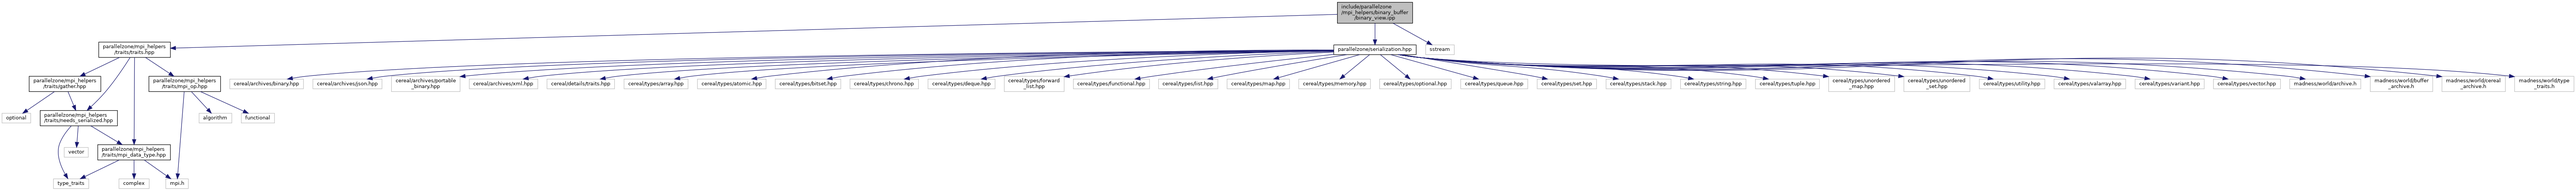
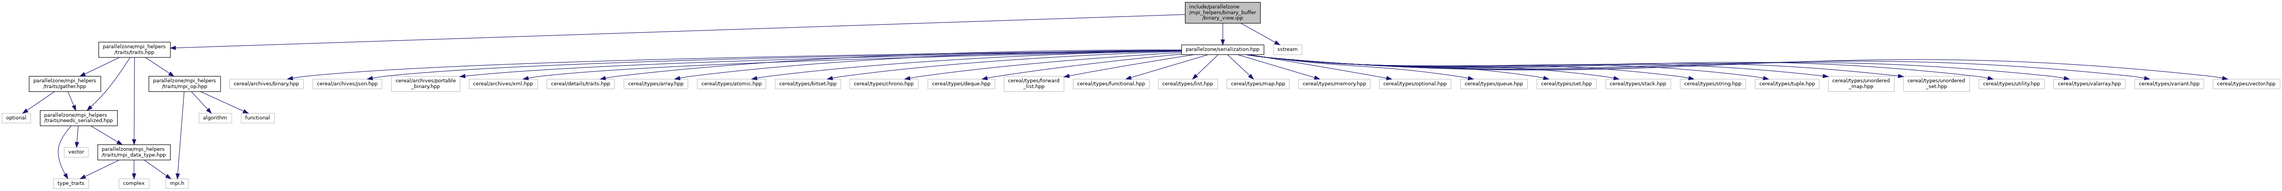
deploy: df736439442db443a8a11bfcac84e42c292cdda2

diff --git a/parallelzone_cxx_api/serialization_8hpp_source.html b/parallelzone_cxx_api/serialization_8hpp_source.html
@@ -114,51 +114,23 @@ $(function() {
 <div class="line"><a name="l00042"></a><span class="lineno">   42</span>&#160;<span class="preprocessor">#include &lt;cereal/types/valarray.hpp&gt;</span></div>
 <div class="line"><a name="l00043"></a><span class="lineno">   43</span>&#160;<span class="preprocessor">#include &lt;cereal/types/variant.hpp&gt;</span></div>
 <div class="line"><a name="l00044"></a><span class="lineno">   44</span>&#160;<span class="preprocessor">#include &lt;cereal/types/vector.hpp&gt;</span></div>
-<div class="line"><a name="l00045"></a><span class="lineno">   45</span>&#160;<span class="preprocessor">#include &lt;madness/world/archive.h&gt;</span></div>
-<div class="line"><a name="l00046"></a><span class="lineno">   46</span>&#160;<span class="preprocessor">#include &lt;madness/world/buffer_archive.h&gt;</span></div>
-<div class="line"><a name="l00047"></a><span class="lineno">   47</span>&#160;<span class="preprocessor">#include &lt;madness/world/cereal_archive.h&gt;</span></div>
-<div class="line"><a name="l00048"></a><span class="lineno">   48</span>&#160;<span class="preprocessor">#include &lt;madness/world/type_traits.h&gt;</span></div>
-<div class="line"><a name="l00049"></a><span class="lineno">   49</span>&#160; </div>
-<div class="line"><a name="l00050"></a><span class="lineno">   50</span>&#160;<span class="keyword">namespace </span>parallelzone {</div>
-<div class="line"><a name="l00051"></a><span class="lineno">   51</span>&#160;<span class="keyword">using</span> XMLOutputArchive =</div>
-<div class="line"><a name="l00052"></a><span class="lineno">   52</span>&#160;  madness::archive::CerealOutputArchive&lt;cereal::XMLOutputArchive&gt;;</div>
-<div class="line"><a name="l00053"></a><span class="lineno">   53</span>&#160;<span class="keyword">using</span> XMLInputArchive =</div>
-<div class="line"><a name="l00054"></a><span class="lineno">   54</span>&#160;  madness::archive::CerealInputArchive&lt;cereal::XMLInputArchive&gt;;</div>
-<div class="line"><a name="l00055"></a><span class="lineno">   55</span>&#160;<span class="keyword">using</span> JSONOutputArchive =</div>
-<div class="line"><a name="l00056"></a><span class="lineno">   56</span>&#160;  madness::archive::CerealOutputArchive&lt;cereal::JSONOutputArchive&gt;;</div>
-<div class="line"><a name="l00057"></a><span class="lineno">   57</span>&#160;<span class="keyword">using</span> JSONInputArchive =</div>
-<div class="line"><a name="l00058"></a><span class="lineno">   58</span>&#160;  madness::archive::CerealInputArchive&lt;cereal::JSONInputArchive&gt;;</div>
-<div class="line"><a name="l00059"></a><span class="lineno">   59</span>&#160;<span class="keyword">using</span> BinaryOutputArchive =</div>
-<div class="line"><a name="l00060"></a><span class="lineno">   60</span>&#160;  madness::archive::CerealOutputArchive&lt;cereal::BinaryOutputArchive&gt;;</div>
-<div class="line"><a name="l00061"></a><span class="lineno">   61</span>&#160;<span class="keyword">using</span> BinaryInputArchive =</div>
-<div class="line"><a name="l00062"></a><span class="lineno">   62</span>&#160;  madness::archive::CerealInputArchive&lt;cereal::BinaryInputArchive&gt;;</div>
-<div class="line"><a name="l00063"></a><span class="lineno">   63</span>&#160;<span class="keyword">using</span> PortableBinaryOutputArchive =</div>
-<div class="line"><a name="l00064"></a><span class="lineno">   64</span>&#160;  madness::archive::CerealOutputArchive&lt;cereal::PortableBinaryOutputArchive&gt;;</div>
-<div class="line"><a name="l00065"></a><span class="lineno">   65</span>&#160;<span class="keyword">using</span> PortableBinaryInputArchive =</div>
-<div class="line"><a name="l00066"></a><span class="lineno">   66</span>&#160;  madness::archive::CerealInputArchive&lt;cereal::PortableBinaryInputArchive&gt;;</div>
-<div class="line"><a name="l00067"></a><span class="lineno">   67</span>&#160;<span class="keyword">template</span>&lt;<span class="keyword">typename</span> T, <span class="keyword">typename</span> Archive&gt;</div>
-<div class="line"><a name="l00068"></a><span class="lineno">   68</span>&#160;<span class="keyword">using</span> is_serializable = cereal::traits::is_output_serializable&lt;T, Archive&gt;;</div>
-<div class="line"><a name="l00069"></a><span class="lineno">   69</span>&#160;<span class="keyword">template</span>&lt;<span class="keyword">typename</span> T, <span class="keyword">typename</span> Archive&gt;</div>
-<div class="line"><a name="l00070"></a><span class="lineno">   70</span>&#160;<span class="keyword">using</span> is_deserializable = cereal::traits::is_input_serializable&lt;T, Archive&gt;;</div>
-<div class="line"><a name="l00071"></a><span class="lineno">   71</span>&#160;<span class="keyword">using</span> cereal::traits::detail::get_input_from_output;</div>
-<div class="line"><a name="l00072"></a><span class="lineno">   72</span>&#160;<span class="keyword">using</span> cereal::traits::detail::get_output_from_input;</div>
-<div class="line"><a name="l00073"></a><span class="lineno">   73</span>&#160;<span class="keyword">using</span> madness::is_input_archive;</div>
-<div class="line"><a name="l00074"></a><span class="lineno">   74</span>&#160;<span class="keyword">using</span> madness::is_input_archive_v;</div>
-<div class="line"><a name="l00075"></a><span class="lineno">   75</span>&#160;<span class="keyword">using</span> madness::is_output_archive;</div>
-<div class="line"><a name="l00076"></a><span class="lineno">   76</span>&#160;<span class="keyword">using</span> madness::is_output_archive_v;</div>
-<div class="line"><a name="l00077"></a><span class="lineno">   77</span>&#160;} <span class="comment">// namespace parallelzone</span></div>
-<div class="line"><a name="l00078"></a><span class="lineno">   78</span>&#160; </div>
-<div class="line"><a name="l00079"></a><span class="lineno">   79</span>&#160;CEREAL_SETUP_ARCHIVE_TRAITS(madness::archive::BufferInputArchive,</div>
-<div class="line"><a name="l00080"></a><span class="lineno">   80</span>&#160;                            madness::archive::BufferOutputArchive)</div>
-<div class="line"><a name="l00081"></a><span class="lineno">   81</span>&#160; </div>
-<div class="line"><a name="l00082"></a><span class="lineno">   82</span>&#160;CEREAL_SETUP_ARCHIVE_TRAITS(parallelzone::XMLInputArchive,</div>
-<div class="line"><a name="l00083"></a><span class="lineno">   83</span>&#160;                            parallelzone::XMLOutputArchive)</div>
-<div class="line"><a name="l00084"></a><span class="lineno">   84</span>&#160;CEREAL_SETUP_ARCHIVE_TRAITS(parallelzone::JSONInputArchive,</div>
-<div class="line"><a name="l00085"></a><span class="lineno">   85</span>&#160;                            parallelzone::JSONOutputArchive)</div>
-<div class="line"><a name="l00086"></a><span class="lineno">   86</span>&#160;CEREAL_SETUP_ARCHIVE_TRAITS(parallelzone::BinaryInputArchive,</div>
-<div class="line"><a name="l00087"></a><span class="lineno">   87</span>&#160;                            parallelzone::BinaryOutputArchive)</div>
-<div class="line"><a name="l00088"></a><span class="lineno">   88</span>&#160;CEREAL_SETUP_ARCHIVE_TRAITS(parallelzone::PortableBinaryInputArchive,</div>
-<div class="line"><a name="l00089"></a><span class="lineno">   89</span>&#160;                            parallelzone::PortableBinaryOutputArchive)</div>
+<div class="line"><a name="l00045"></a><span class="lineno">   45</span>&#160; </div>
+<div class="line"><a name="l00046"></a><span class="lineno">   46</span>&#160;<span class="keyword">namespace </span>parallelzone {</div>
+<div class="line"><a name="l00047"></a><span class="lineno">   47</span>&#160;<span class="keyword">using</span> XMLOutputArchive            = cereal::XMLOutputArchive;</div>
+<div class="line"><a name="l00048"></a><span class="lineno">   48</span>&#160;<span class="keyword">using</span> XMLInputArchive             = cereal::XMLInputArchive;</div>
+<div class="line"><a name="l00049"></a><span class="lineno">   49</span>&#160;<span class="keyword">using</span> JSONOutputArchive           = cereal::JSONOutputArchive;</div>
+<div class="line"><a name="l00050"></a><span class="lineno">   50</span>&#160;<span class="keyword">using</span> JSONInputArchive            = cereal::JSONInputArchive;</div>
+<div class="line"><a name="l00051"></a><span class="lineno">   51</span>&#160;<span class="keyword">using</span> BinaryOutputArchive         = cereal::BinaryOutputArchive;</div>
+<div class="line"><a name="l00052"></a><span class="lineno">   52</span>&#160;<span class="keyword">using</span> BinaryInputArchive          = cereal::BinaryInputArchive;</div>
+<div class="line"><a name="l00053"></a><span class="lineno">   53</span>&#160;<span class="keyword">using</span> PortableBinaryOutputArchive = cereal::PortableBinaryOutputArchive;</div>
+<div class="line"><a name="l00054"></a><span class="lineno">   54</span>&#160;<span class="keyword">using</span> PortableBinaryInputArchive  = cereal::PortableBinaryInputArchive;</div>
+<div class="line"><a name="l00055"></a><span class="lineno">   55</span>&#160;<span class="keyword">template</span>&lt;<span class="keyword">typename</span> T, <span class="keyword">typename</span> Archive&gt;</div>
+<div class="line"><a name="l00056"></a><span class="lineno">   56</span>&#160;<span class="keyword">using</span> is_serializable = cereal::traits::is_output_serializable&lt;T, Archive&gt;;</div>
+<div class="line"><a name="l00057"></a><span class="lineno">   57</span>&#160;<span class="keyword">template</span>&lt;<span class="keyword">typename</span> T, <span class="keyword">typename</span> Archive&gt;</div>
+<div class="line"><a name="l00058"></a><span class="lineno">   58</span>&#160;<span class="keyword">using</span> is_deserializable = cereal::traits::is_input_serializable&lt;T, Archive&gt;;</div>
+<div class="line"><a name="l00059"></a><span class="lineno">   59</span>&#160;<span class="keyword">using</span> cereal::traits::detail::get_input_from_output;</div>
+<div class="line"><a name="l00060"></a><span class="lineno">   60</span>&#160;<span class="keyword">using</span> cereal::traits::detail::get_output_from_input;</div>
+<div class="line"><a name="l00061"></a><span class="lineno">   61</span>&#160;} <span class="comment">// namespace parallelzone</span></div>
 </div><!-- fragment --></div><!-- contents -->
 <!-- start footer part -->
 <hr class="footer"/><address class="footer"><small>

diff --git a/parallelzone_cxx_api/parallelzone_8hpp.html b/parallelzone_cxx_api/parallelzone_8hpp.html
@@ -77,56 +77,56 @@ Include dependency graph for parallelzone.hpp:</div>
 <div class="dyncontent">
 <div class="center"><img src="parallelzone_8hpp__incl.png" border="0" usemap="#ainclude_2parallelzone_2parallelzone_8hpp" alt=""/></div>
 <map name="ainclude_2parallelzone_2parallelzone_8hpp" id="ainclude_2parallelzone_2parallelzone_8hpp">
-<area shape="rect" title=" " alt="" coords="3278,5,3431,47"/>
-<area shape="rect" href="serialization_8hpp_source.html" title=" " alt="" coords="2987,638,3202,665"/>
-<area shape="rect" href="runtime_8hpp.html" title=" " alt="" coords="3632,95,3789,136"/>
-<area shape="rect" title=" " alt="" coords="5,727,197,754"/>
-<area shape="rect" title=" " alt="" coords="222,727,402,754"/>
-<area shape="rect" title=" " alt="" coords="427,720,605,761"/>
-<area shape="rect" title=" " alt="" coords="629,727,808,754"/>
-<area shape="rect" title=" " alt="" coords="832,727,1008,754"/>
-<area shape="rect" title=" " alt="" coords="1033,727,1199,754"/>
-<area shape="rect" title=" " alt="" coords="1224,727,1403,754"/>
-<area shape="rect" title=" " alt="" coords="1427,727,1597,754"/>
-<area shape="rect" title=" " alt="" coords="1621,727,1800,754"/>
-<area shape="rect" title=" " alt="" coords="1825,727,1999,754"/>
-<area shape="rect" title=" " alt="" coords="2023,720,2179,761"/>
-<area shape="rect" title=" " alt="" coords="2203,727,2402,754"/>
-<area shape="rect" title=" " alt="" coords="2425,727,2580,754"/>
-<area shape="rect" title=" " alt="" coords="2604,727,2767,754"/>
-<area shape="rect" title=" " alt="" coords="2791,727,2977,754"/>
-<area shape="rect" title=" " alt="" coords="3001,727,3188,754"/>
-<area shape="rect" title=" " alt="" coords="3213,727,3387,754"/>
-<area shape="rect" title=" " alt="" coords="3412,727,3567,754"/>
-<area shape="rect" title=" " alt="" coords="3591,727,3761,754"/>
-<area shape="rect" title=" " alt="" coords="3785,727,3956,754"/>
-<area shape="rect" title=" " alt="" coords="3981,727,4147,754"/>
-<area shape="rect" title=" " alt="" coords="4171,720,4343,761"/>
-<area shape="rect" title=" " alt="" coords="4367,720,4539,761"/>
-<area shape="rect" title=" " alt="" coords="4564,727,4735,754"/>
-<area shape="rect" title=" " alt="" coords="4759,727,4945,754"/>
-<area shape="rect" title=" " alt="" coords="4970,727,5150,754"/>
-<area shape="rect" title=" " alt="" coords="5174,727,5349,754"/>
-<area shape="rect" title=" " alt="" coords="5373,727,5558,754"/>
-<area shape="rect" title=" " alt="" coords="5583,720,5745,761"/>
-<area shape="rect" title=" " alt="" coords="5769,720,5935,761"/>
-<area shape="rect" title=" " alt="" coords="5959,720,6113,761"/>
-<area shape="rect" href="resource__set_8hpp_source.html" title=" " alt="" coords="3748,273,3905,315"/>
-<area shape="rect" href="runtime__view_8hpp_source.html" title=" " alt="" coords="3748,184,3905,225"/>
-<area shape="rect" href="ram_8hpp_source.html" title=" " alt="" coords="3743,363,3910,404"/>
-<area shape="rect" title=" " alt="" coords="3952,459,4029,486"/>
-<area shape="rect" href="logger_8hpp_source.html" title=" " alt="" coords="4007,363,4161,404"/>
-<area shape="rect" title=" " alt="" coords="3724,638,3799,665"/>
-<area shape="rect" href="binary__view_8hpp_source.html" title=" " alt="" coords="3257,631,3479,672"/>
-<area shape="rect" href="commpp_8hpp_source.html" title=" " alt="" coords="3539,452,3725,493"/>
-<area shape="rect" title=" " alt="" coords="3865,459,3927,486"/>
-<area shape="rect" title=" " alt="" coords="3456,549,3515,575"/>
-<area shape="rect" href="binary__buffer_8hpp_source.html" title=" " alt="" coords="3101,541,3331,583"/>
-<area shape="rect" href="gather_8hpp_source.html" title=" " alt="" coords="3539,541,3725,583"/>
-<area shape="rect" href="commpp_8ipp.html" title=" " alt="" coords="3750,549,3853,575"/>
-<area shape="rect" title=" " alt="" coords="4054,459,4130,486"/>
-<area shape="rect" title=" " alt="" coords="4155,459,4213,486"/>
-<area shape="rect" title=" " alt="" coords="3930,281,4134,307"/>
+<area shape="rect" title=" " alt="" coords="2019,5,2173,47"/>
+<area shape="rect" href="serialization_8hpp_source.html" title=" " alt="" coords="2578,795,2793,821"/>
+<area shape="rect" href="runtime_8hpp.html" title=" " alt="" coords="2187,95,2344,136"/>
+<area shape="rect" title=" " alt="" coords="5,877,197,903"/>
+<area shape="rect" title=" " alt="" coords="222,877,402,903"/>
+<area shape="rect" title=" " alt="" coords="427,869,605,911"/>
+<area shape="rect" title=" " alt="" coords="629,877,808,903"/>
+<area shape="rect" title=" " alt="" coords="832,877,1008,903"/>
+<area shape="rect" title=" " alt="" coords="1033,877,1199,903"/>
+<area shape="rect" title=" " alt="" coords="1224,877,1403,903"/>
+<area shape="rect" title=" " alt="" coords="1427,877,1597,903"/>
+<area shape="rect" title=" " alt="" coords="1621,877,1800,903"/>
+<area shape="rect" title=" " alt="" coords="1825,877,1999,903"/>
+<area shape="rect" title=" " alt="" coords="2023,869,2179,911"/>
+<area shape="rect" title=" " alt="" coords="2203,877,2402,903"/>
+<area shape="rect" title=" " alt="" coords="2425,877,2580,903"/>
+<area shape="rect" title=" " alt="" coords="2604,877,2767,903"/>
+<area shape="rect" title=" " alt="" coords="2791,877,2977,903"/>
+<area shape="rect" title=" " alt="" coords="3001,877,3188,903"/>
+<area shape="rect" title=" " alt="" coords="3213,877,3387,903"/>
+<area shape="rect" title=" " alt="" coords="3412,877,3567,903"/>
+<area shape="rect" title=" " alt="" coords="3591,877,3761,903"/>
+<area shape="rect" title=" " alt="" coords="3785,877,3956,903"/>
+<area shape="rect" title=" " alt="" coords="3981,877,4147,903"/>
+<area shape="rect" title=" " alt="" coords="4171,869,4343,911"/>
+<area shape="rect" title=" " alt="" coords="4367,869,4539,911"/>
+<area shape="rect" title=" " alt="" coords="4564,877,4735,903"/>
+<area shape="rect" title=" " alt="" coords="4759,877,4945,903"/>
+<area shape="rect" title=" " alt="" coords="4970,877,5150,903"/>
+<area shape="rect" title=" " alt="" coords="5174,877,5349,903"/>
+<area shape="rect" href="resource__set_8hpp_source.html" title=" " alt="" coords="2187,273,2344,315"/>
+<area shape="rect" href="runtime__view_8hpp_source.html" title=" " alt="" coords="2365,184,2523,225"/>
+<area shape="rect" href="ram_8hpp_source.html" title=" " alt="" coords="2271,363,2438,404"/>
+<area shape="rect" title=" " alt="" coords="2181,459,2259,486"/>
+<area shape="rect" href="logger_8hpp_source.html" title=" " alt="" coords="2041,363,2196,404"/>
+<area shape="rect" title=" " alt="" coords="2295,638,2369,665"/>
+<area shape="rect" href="binary__view_8hpp_source.html" title=" " alt="" coords="2881,631,3103,672"/>
+<area shape="rect" href="commpp_8hpp_source.html" title=" " alt="" coords="2451,452,2637,493"/>
+<area shape="rect" title=" " alt="" coords="2334,459,2397,486"/>
+<area shape="rect" title=" " alt="" coords="2982,720,3053,747"/>
+<area shape="rect" title=" " alt="" coords="3077,720,3157,747"/>
+<area shape="rect" title=" " alt="" coords="2723,720,2810,747"/>
+<area shape="rect" href="binary__view_8ipp.html" title=" " alt="" coords="2834,720,2958,747"/>
+<area shape="rect" title=" " alt="" coords="2515,549,2573,575"/>
+<area shape="rect" href="binary__buffer_8hpp_source.html" title=" " alt="" coords="2597,541,2827,583"/>
+<area shape="rect" href="gather_8hpp_source.html" title=" " alt="" coords="2304,541,2491,583"/>
+<area shape="rect" href="commpp_8ipp.html" title=" " alt="" coords="2851,549,2954,575"/>
+<area shape="rect" title=" " alt="" coords="2081,459,2157,486"/>
+<area shape="rect" title=" " alt="" coords="1997,459,2056,486"/>
+<area shape="rect" title=" " alt="" coords="2514,281,2718,307"/>
 </map>
 </div>
 </div>

diff --git a/parallelzone_cxx_api/binary__view_8ipp.html b/parallelzone_cxx_api/binary__view_8ipp.html
@@ -80,10 +80,10 @@ Include dependency graph for binary_view.ipp:</div>
 <div class="dyncontent">
 <div class="center"><img src="binary__view_8ipp__incl.png" border="0" usemap="#ainclude_2parallelzone_2mpi__helpers_2binary__buffer_2binary__view_8ipp" alt=""/></div>
 <map name="ainclude_2parallelzone_2mpi__helpers_2binary__buffer_2binary__view_8ipp" id="ainclude_2parallelzone_2mpi__helpers_2binary__buffer_2binary__view_8ipp">
-<area shape="rect" title=" " alt="" coords="3485,5,3681,61"/>
+<area shape="rect" title=" " alt="" coords="3089,5,3285,61"/>
 <area shape="rect" href="traits_8hpp_source.html" title=" " alt="" coords="257,109,444,151"/>
-<area shape="rect" href="serialization_8hpp_source.html" title=" " alt="" coords="3475,117,3690,143"/>
-<area shape="rect" title=" " alt="" coords="3715,117,3789,143"/>
+<area shape="rect" href="serialization_8hpp_source.html" title=" " alt="" coords="3079,117,3294,143"/>
+<area shape="rect" title=" " alt="" coords="3319,117,3393,143"/>
 <area shape="rect" href="gather_8hpp_source.html" title=" " alt="" coords="76,199,263,240"/>
 <area shape="rect" href="needs__serialized_8hpp_source.html" title=" " alt="" coords="105,288,306,329"/>
 <area shape="rect" href="mpi__data__type_8hpp_source.html" title=" " alt="" coords="255,377,444,419"/>
@@ -122,10 +122,6 @@ Include dependency graph for binary_view.ipp:</div>
 <area shape="rect" title=" " alt="" coords="5352,206,5539,233"/>
 <area shape="rect" title=" " alt="" coords="5563,206,5743,233"/>
 <area shape="rect" title=" " alt="" coords="5767,206,5942,233"/>
-<area shape="rect" title=" " alt="" coords="5966,206,6151,233"/>
-<area shape="rect" title=" " alt="" coords="6176,199,6339,240"/>
-<area shape="rect" title=" " alt="" coords="6363,199,6528,240"/>
-<area shape="rect" title=" " alt="" coords="6552,199,6707,240"/>
 </map>
 </div>
 </div><div class="textblock"><div class="dynheader">
